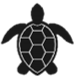
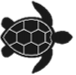
fixed turtle angle

diff --git a/src/Backend/src/Models/Turtle.java b/src/Backend/src/Models/Turtle.java
@@ -5,7 +5,6 @@ import API.FrontExternalAPI;
 public class Turtle extends GeneralTurtle {
 
     public static final int FULL_CIRCLE_DEGREES = 360;
-    public static final int START_DEGREES = 180;
     public static final int STARTX = 2000;
     public static final int STARTY = 2000;
 
@@ -25,13 +24,15 @@ public class Turtle extends GeneralTurtle {
 
     public void turnCounterClockwise(double degrees) {
         myHeadingAngle += degrees;
-        myHeadingAngle = keepAnglePositive(myHeadingAngle + START_DEGREES);
+        myHeadingAngle = keepAnglePositive(myHeadingAngle);
+        printTurtleStatus();
         myFrontExternalAPI.rotate(myHeadingAngle, myId);
     }
 
     public void setHeadingAngle(double degrees) {
         myHeadingAngle = degrees;
-        myHeadingAngle = keepAnglePositive(myHeadingAngle + START_DEGREES);
+        myHeadingAngle = keepAnglePositive(myHeadingAngle);
+        printTurtleStatus();
         myFrontExternalAPI.rotate(myHeadingAngle, myId);
     }
 
@@ -62,53 +63,6 @@ public class Turtle extends GeneralTurtle {
         // TODO: call feroze
     }
 
-//    public List<Double> getUpdatedX() {
-//        List<Double> listOfX = new ArrayList<>();
-//        for (int i = 0; i < listOfStates.size(); i++) {
-//            listOfX.add(listOfStates.get(i).getCurrentX() - STARTX);
-//        }
-//        return listOfX;
-//    }
-//
-//    public List<Double> getUpdatedY() {
-//        List<Double> listOfY = new ArrayList<>();
-//        for (int i = 0; i < listOfStates.size(); i++) {
-//            listOfY.add(listOfStates.get(i).getCurrentY() - STARTY);
-//        }
-//        return listOfY;
-//    }
-//
-//    public List<Double> getHeadingAngle() {
-//        List<Double> listOfAngles = new ArrayList<>();
-//        for (int i = 0; i < listOfStates.size(); i++) {
-//            listOfAngles.add(listOfStates.get(i).getCurrentAngle());
-//        }
-//        return listOfAngles;
-//    }
-//
-//    public List<Boolean> getIsPenUp() {
-//        List<Boolean> listOfPenUp = new ArrayList<>();
-//        for (int i = 0; i < listOfStates.size(); i++) {
-//            listOfPenUp.add(listOfStates.get(i).getCurrentIsPenUp());
-//        }
-//        return listOfPenUp;
-//    }
-//
-//    public List<Boolean> getIsDisplayed() {
-//        List<Boolean> listOfIsDisplayed = new ArrayList<>();
-//        for (int i = 0; i < listOfStates.size(); i++) {
-//            listOfIsDisplayed.add(listOfStates.get(i).getCurrentIsDisplayed());
-//        }
-//        return listOfIsDisplayed;
-//    }
-//
-//    public List<Boolean> getClearScreen() {
-//        List<Boolean> listOfCS = new ArrayList<>();
-//        for (int i = 0; i < listOfStates.size(); i++) {
-//            listOfCS.add(listOfStates.get(i).getCurrentIsCS());
-//        }
-//        return listOfCS;
-//    }
 
 
     //HELPERS

diff --git a/src/View/src/FrontInternal/Players/TurtleView.java b/src/View/src/FrontInternal/Players/TurtleView.java
@@ -135,7 +135,7 @@ public class TurtleView extends Sprite {
                     // get current location
                     double x = getCurrentX();
                     double y = getCurrentY();
-                    System.out.println("in loop");
+                    //System.out.println("in loop");
                     //                System.out.println("current x: " + x);
                     //                System.out.println("current y: " + y);
                     //                System.out.println("angle: " + turtle.getRotate());

diff --git a/src/View/src/FrontInternal/Players/TurtleManager.java b/src/View/src/FrontInternal/Players/TurtleManager.java
@@ -36,7 +36,6 @@ public class TurtleManager extends SpriteManager {
         for (Sprite s: sprites) {
             GAME_ACTORS.put(s.getID(), s);
         }
-
     }
 
 
@@ -49,7 +48,7 @@ public class TurtleManager extends SpriteManager {
     }
 
     public void rotateTurtle(double degrees, int turtleId) {
-        get(turtleId).rotate(degrees);
+        get(turtleId).rotate(-degrees);
     }
 
     public void setPenColor(int index, int turtleId) {

diff --git a/src/Backend/src/Commands/Right.java b/src/Backend/src/Commands/Right.java
@@ -12,7 +12,7 @@ public class Right extends OneParamCommand {
     public Object executeCommand() throws ClassCastException {
         Turtle myTurtle =(Turtle) this.myTurtleModel.getCurrentTurtle();
 
-        myTurtle.turnCounterClockwise(-1 * (double) myParams.get(0));
-        return (double) myParams.get(0);
+        myTurtle.turnCounterClockwise(-1 * Double.valueOf(String.valueOf(myParams.get(0))));
+        return myParams.get(0);
     }
 }

diff --git a/src/Backend/src/Models/TurtleModel.java b/src/Backend/src/Models/TurtleModel.java
@@ -44,7 +44,7 @@ public class TurtleModel {
     public static final double STARTX = 2000;
     public static final double STARTY = 2000;
     public static final boolean IS_PEN_UP = false;
-    public static final double HEADING_ANGLE = 90;
+    public static final double HEADING_ANGLE = 0;
     public static final boolean IS_DISPLAYED = true;
     public static final boolean CLEAR_SCREEN = false;
     public static final int PEN_COLOR_INDEX = 0;

diff --git a/src/Backend/src/Commands/Left.java b/src/Backend/src/Commands/Left.java
@@ -13,6 +13,6 @@ public class Left extends OneParamCommand {
         Turtle myTurtle =(Turtle) this.myTurtleModel.getCurrentTurtle();
 
         myTurtle.turnCounterClockwise(Double.valueOf(String.valueOf(myParams.get(0))));
-        return (double) myParams.get(0);
+        return myParams.get(0);
     }
 }

diff --git a/src/Backend/src/Commands/SetBackground.java b/src/Backend/src/Commands/SetBackground.java
@@ -1,0 +1,4 @@
+package Commands;
+
+public class SetBackground {
+}

diff --git a/src/Backend/src/Commands/SetPenColor.java b/src/Backend/src/Commands/SetPenColor.java
@@ -1,0 +1,4 @@
+package Commands;
+
+public class SetPenColor {
+}

diff --git a/src/Backend/src/Commands/SetPalette.java b/src/Backend/src/Commands/SetPalette.java
@@ -1,0 +1,4 @@
+package Commands;
+
+public class SetPalette {
+}

diff --git a/src/Backend/src/Commands/SetPenSize.java b/src/Backend/src/Commands/SetPenSize.java
@@ -1,0 +1,4 @@
+package Commands;
+
+public class SetPenSize {
+}

diff --git a/src/Backend/src/Commands/SetShape.java b/src/Backend/src/Commands/SetShape.java
@@ -1,0 +1,4 @@
+package Commands;
+
+public class SetShape {
+}
